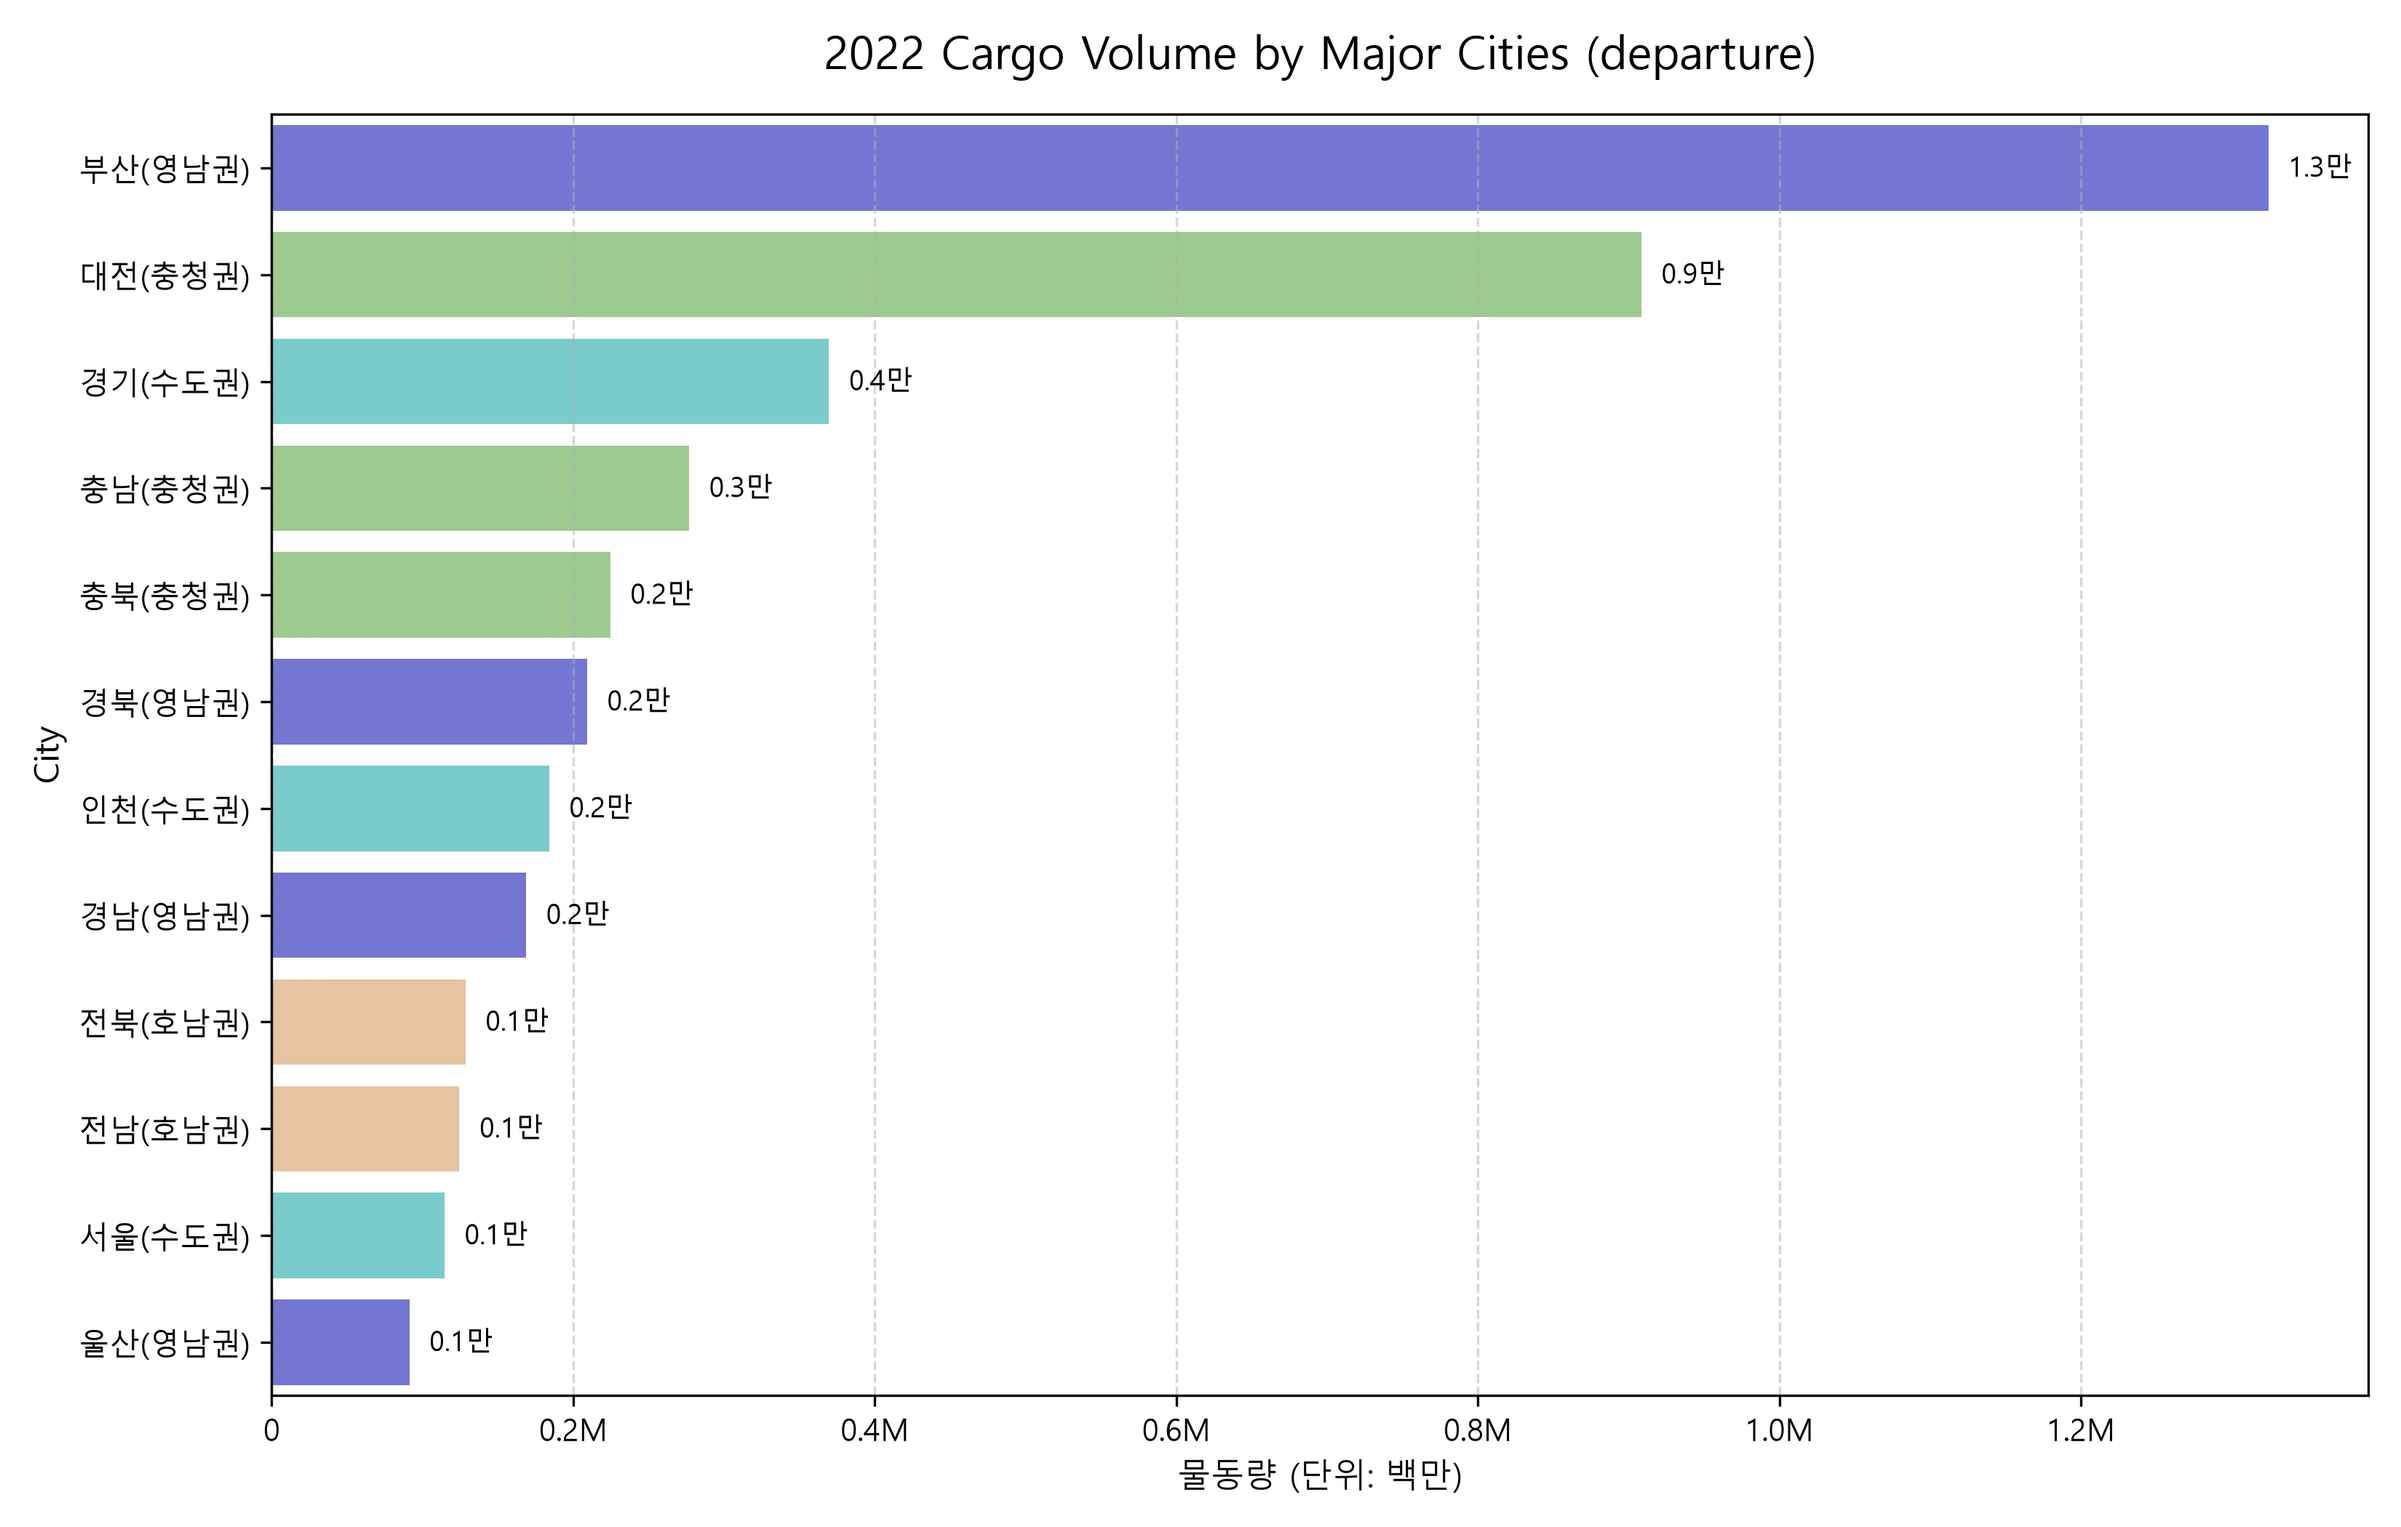
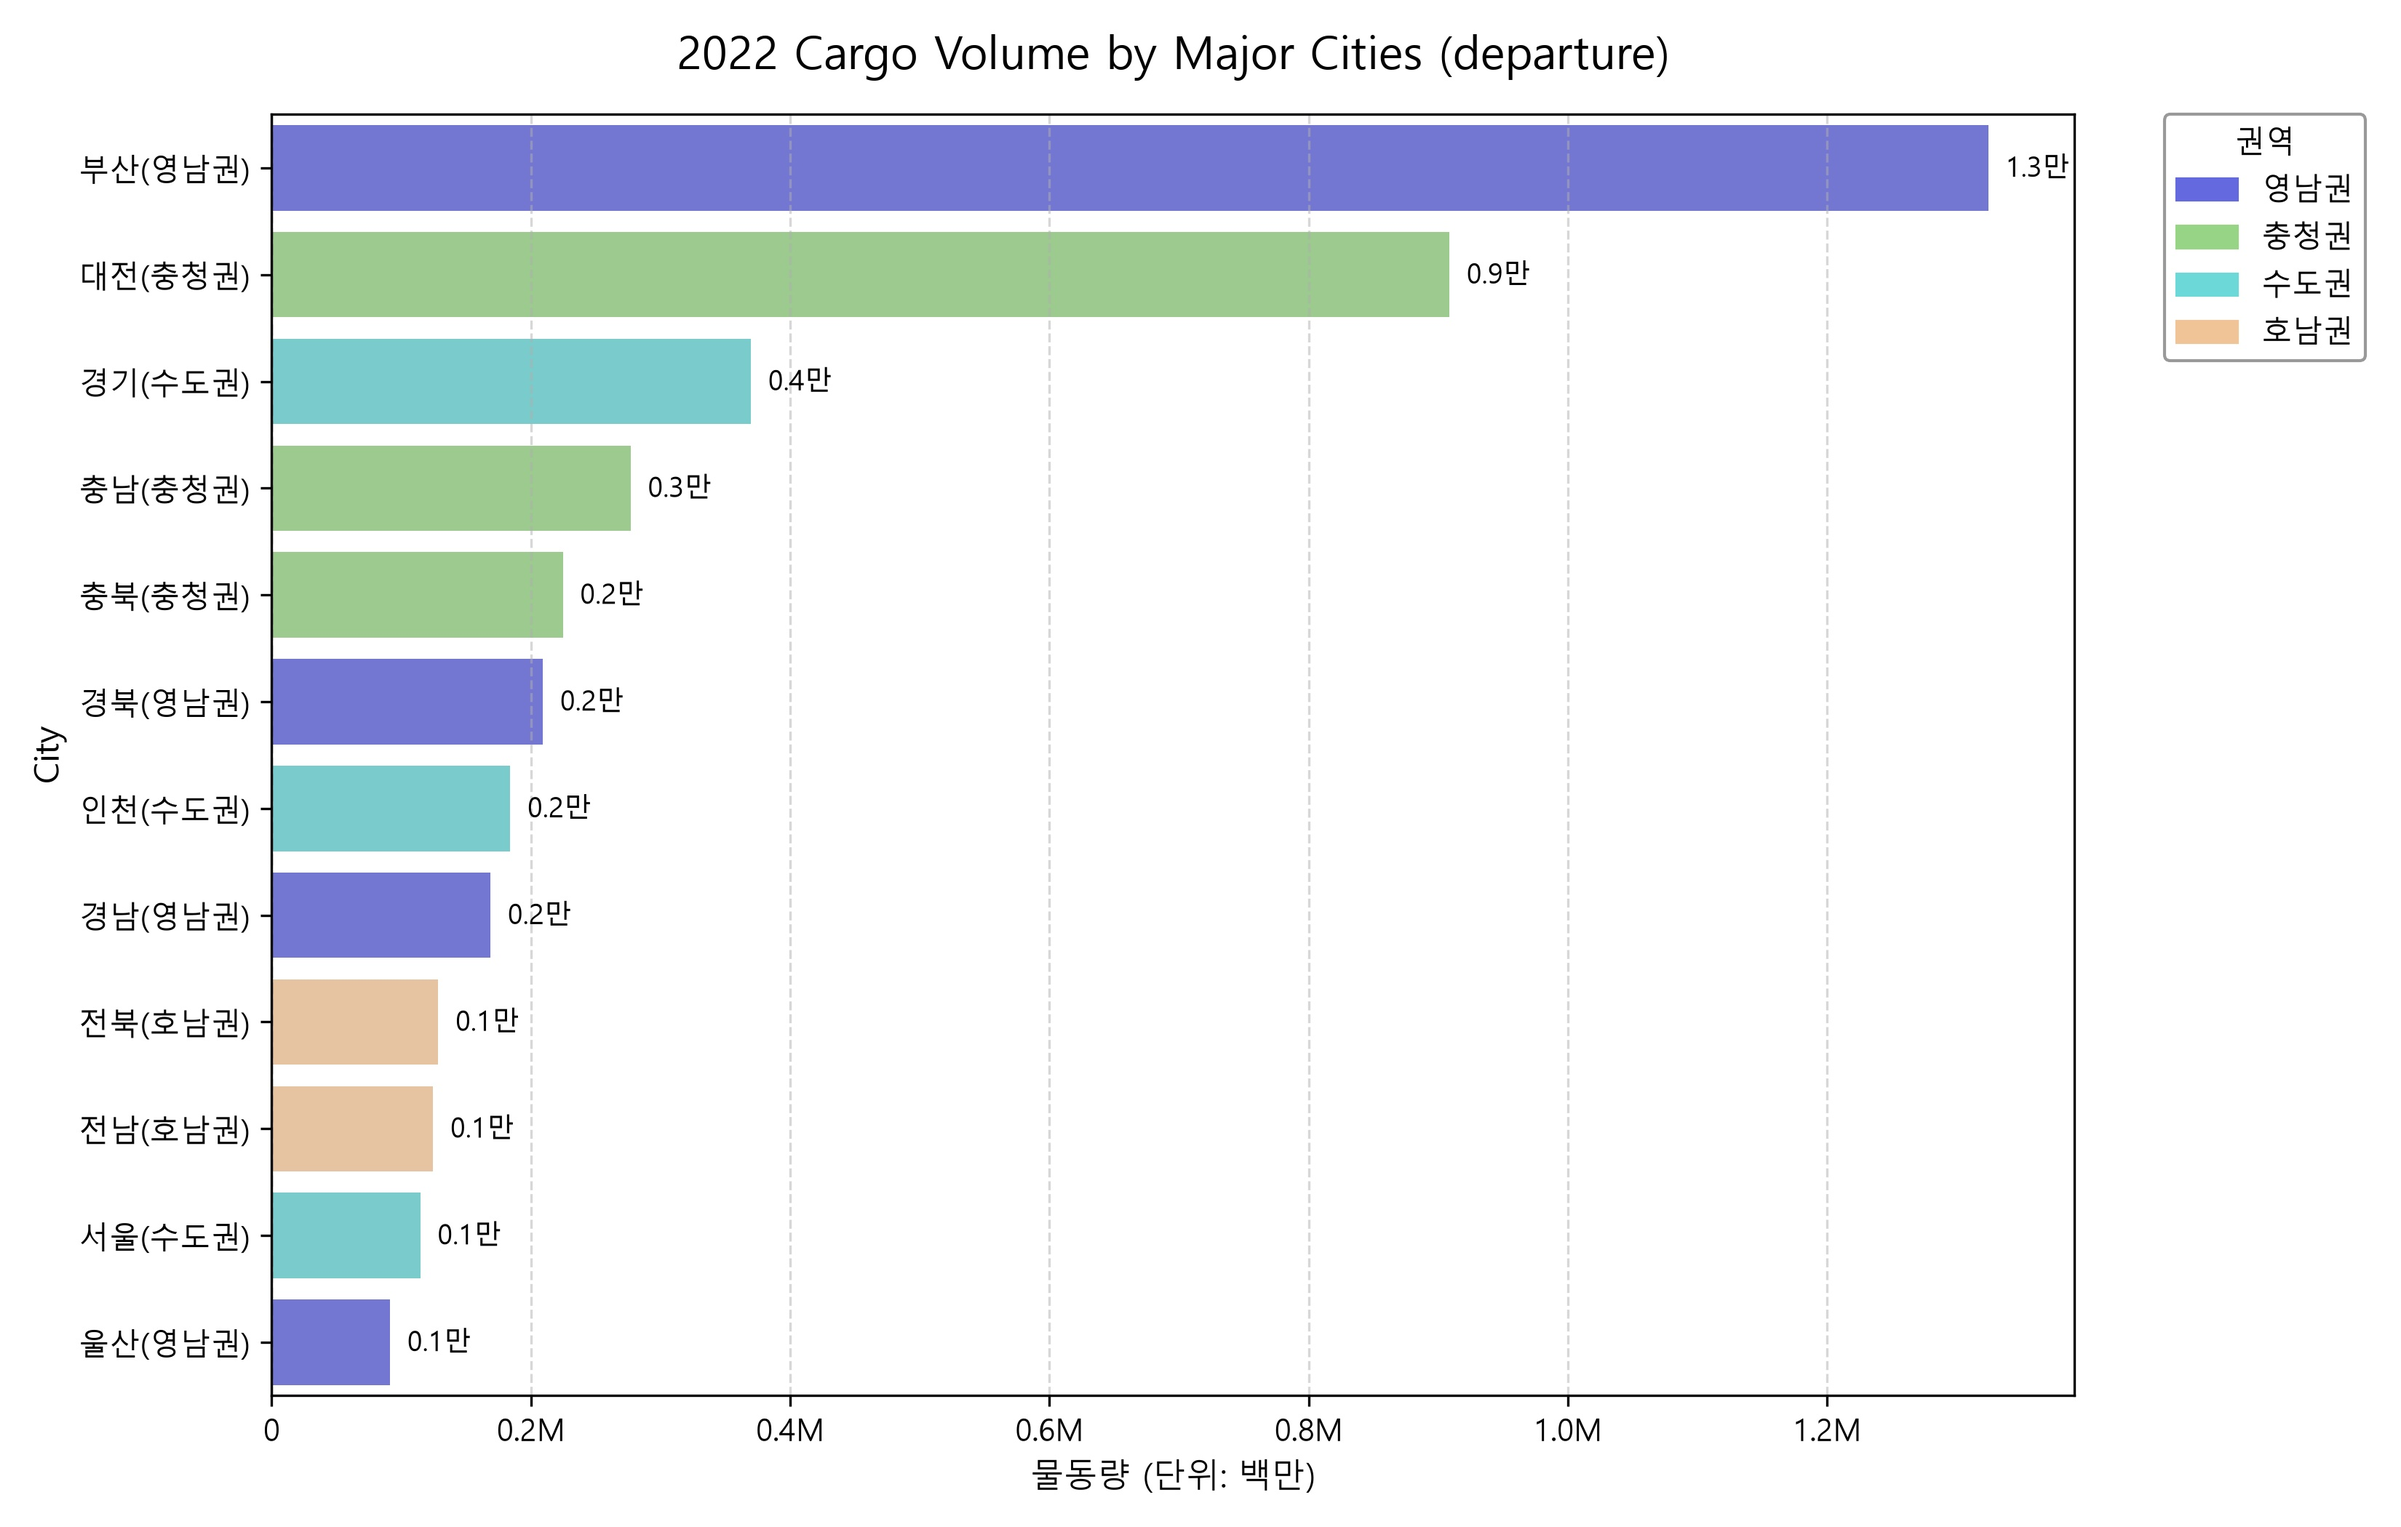
feat: revise volume_arrival and gap_arrival graph

diff --git a/NLIC/src/visualize_gap_12_23.py b/NLIC/src/visualize_gap_12_23.py
@@ -1,0 +1,144 @@
+import os
+from pathlib import Path
+import pandas as pd
+import matplotlib.pyplot as plt
+from matplotlib.ticker import FuncFormatter
+import matplotlib.patches as mpatches
+import seaborn as sns
+
+# Set font family for Korean text and prevent minus sign clipping
+plt.rcParams['font.family'] = 'Malgun Gothic'
+plt.rcParams['axes.unicode_minus'] = False 
+
+# Set the color palette for the background of the plot
+region_bg_colors = {
+    '수도권': "#D9F8F8", 
+    '영남권': "#DCDDF6",
+    '충청권': "#E2F4DD", 
+    '호남권': '#FFEBEE',    
+}
+
+# Load the query result
+df = pd.read_csv("NLIC/data/gap_21_22.csv")
+
+# Filter the top 12 cities based on the absolute value of the change to keep the plot clean
+df['abs_gap'] = df['물동량_변화량'].abs()
+
+type_mapping = {
+    '출발': 'departure',
+    '도착': 'arrival'
+}
+
+# find the target files
+data_dir = Path("NLIC/data")
+
+# target files for each year
+target_files = {
+    2021: data_dir/"gap_21_22.csv",
+    2022: data_dir/"gap_22_23.csv"
+}
+
+# save directory
+save_dir = Path("NLIC/output")
+
+for year, filename in target_files.items():
+    if not os.path.exists(filename):
+        print(f"there is no {filename} file")
+        continue
+    df = pd.read_csv(filename)
+        
+    # Separate visualization for '출발' (Departure) and '도착' (Arrival)
+    for kor_type, eng_type in type_mapping.items():
+        type_data = df[df['구분'] == kor_type]
+        
+        if type_data.empty:
+            continue
+
+        type_data['abs_gap'] = type_data['물동량_변화량'].abs()
+        plot_data = type_data.sort_values(by='abs_gap', ascending=False).head(12)
+
+        plot_data = plot_data.reset_index(drop=True)
+
+        plot_data['도시_권역']=plot_data['도시명']+'('+plot_data['권역']+')'
+        
+        plot_data=plot_data.sort_values(by='물동량_변화량', ascending=False)
+
+        # Create a new figure and axis
+        fig, ax = plt.subplots(figsize=(11, 7))
+
+        # Set the background color for the plot
+        unique_regions = plot_data['권역'].unique()
+        current_y_idx = 0
+        for region in plot_data['권역']:
+            bg_color = region_bg_colors.get(region, '#FFFFFF')
+            ax.axhspan(current_y_idx - 0.5, current_y_idx + 0.5, facecolor=bg_color, alpha=0.9, zorder = 0)
+            current_y_idx += 1
+
+        active_regions = plot_data['권역'].unique()
+        legend_handles = []
+        for region in active_regions:
+            if region in region_bg_colors:
+                patch = mpatches.Patch(color=region_bg_colors[region], label=region)
+                legend_handles.append(patch)
+        ax.legend(
+            handles=legend_handles, 
+            title='권역', 
+            bbox_to_anchor=(1.05, 1), 
+            loc='upper left', 
+            borderaxespad=0.,
+            frameon=True,
+            facecolor = 'white',
+            edgecolor = 'gray')  # Set the legend title and location
+        
+        # Use blue for positive changes and red for negative changes for intuitive visualization
+        colors = ['#4C72B0' if x > 0 else '#C44E52' for x in plot_data['물동량_변화량']]
+
+        # Create a dictionary to map the city names to colors
+        color_dict = dict(zip(plot_data['도시_권역'], colors))
+        
+        sns.barplot(
+            data=plot_data, 
+            x='물동량_변화량', 
+            y='도시_권역', 
+            hue='도시_권역',       # Added to follow the latest Seaborn formatting guidelines
+            palette=colors,    
+            ax=ax,
+            zorder = 1
+        )
+        
+        plt.axvline(0, color='black', linestyle='--', linewidth=1) # Reference line at 0
+        plt.title(f"2021 vs 2022 Cargo Volume Change by Major Cities ({eng_type})", fontsize=15, pad=15)
+        plt.xlabel("Change in Cargo Volume (2022 - 2021)", fontsize=11)
+        plt.ylabel("City", fontsize=11)
+
+        # plt.grid(axis='x', linestyle='--', alpha=0.5)
+        def millions_formatter(x, pos):
+            return f'{x*1e-6:.1f}M' if x != 0 else '0'
+            
+        ax.xaxis.set_major_formatter(FuncFormatter(millions_formatter))
+        plt.xlabel("물동량 변화량 (단위: 백만)", fontsize=11)
+
+        ax.grid(axis='x', linestyle='--', alpha=0.5, zorder=0)
+
+        for p in ax.patches: # Add data labels to the bars in the axis
+            if not isinstance(p, plt.Rectangle): # filter real bar
+                continue
+            width = p.get_width()
+            if abs(width) < 1000: # consider minimal figure error, skip if width is 0
+                continue
+            y_pos = p.get_y() + p.get_height()/2.
+            label_text = f'{width/1000000:.1f}만'
+            if width > 0:
+                x_pos = width + (max(plot_data['물동량_변화량']) * 0.01)
+                ha_align = 'left' 
+            else:
+                x_pos = width - (max(plot_data['물동량_변화량']) * 0.01)
+                ha_align = 'right'
+            ax.text(x_pos, y_pos, label_text,va = "center", ha=ha_align, fontsize=9, color = "black")
+
+        plt.tight_layout()
+        save_path = save_dir / f"gap_{eng_type}_{str(year)[2:]}-{str(year+1)[2:]}.jpg"
+
+        # 수정 후 코드
+        plt.savefig(save_path, dpi=300, pil_kwargs={'quality': 95})
+        plt.close()

diff --git a/NLIC/src/visualize_cargo_volume_22_23.py b/NLIC/src/visualize_cargo_volume_22_23.py
@@ -2,6 +2,7 @@ import os
 from pathlib import Path
 import pandas as pd
 import matplotlib.pyplot as plt
+import matplotlib.patches as mpatches
 from matplotlib.ticker import FuncFormatter
 import seaborn as sns
 
@@ -71,9 +72,26 @@ for year, filename in target_files.items():
             y='도시_권역', 
             hue='도시_권역', 
             palette=colors,
-            legend=False, 
             ax=ax
         )
+
+        
+        active_regions = plot_data['권역'].unique()
+        legend_handles = []
+        for region in active_regions:
+            if region in region_colors:
+                patch = mpatches.Patch(color=region_colors[region], label=region)
+                legend_handles.append(patch)
+        ax.legend(
+            handles=legend_handles, 
+            title='권역', 
+            bbox_to_anchor=(1.05, 1), 
+            loc='upper left', 
+            borderaxespad=0.,
+            frameon=True,
+            facecolor = 'white',
+            edgecolor = 'gray')  # Set the legend title and location
+        
 
         plt.axvline(0, color='black', linestyle='--', linewidth=1) 
         plt.title(f"{year} Cargo Volume by Major Cities ({eng_type})", fontsize=15, pad=15)
